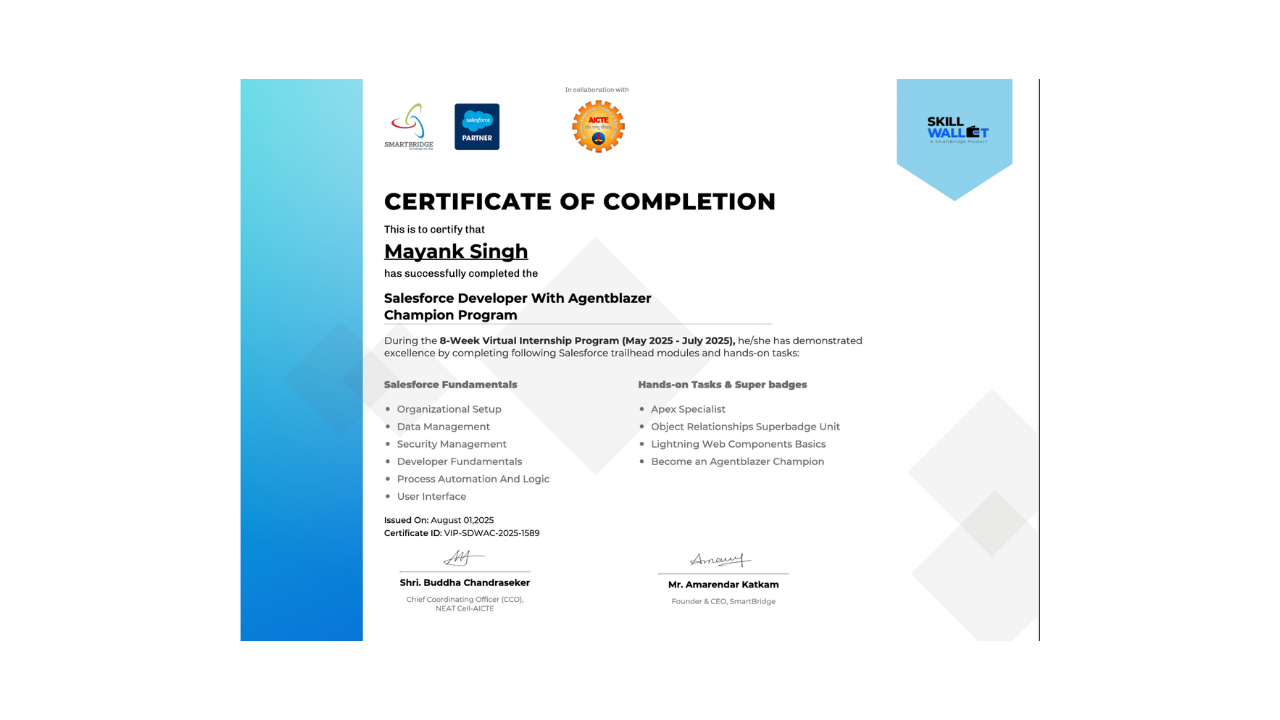
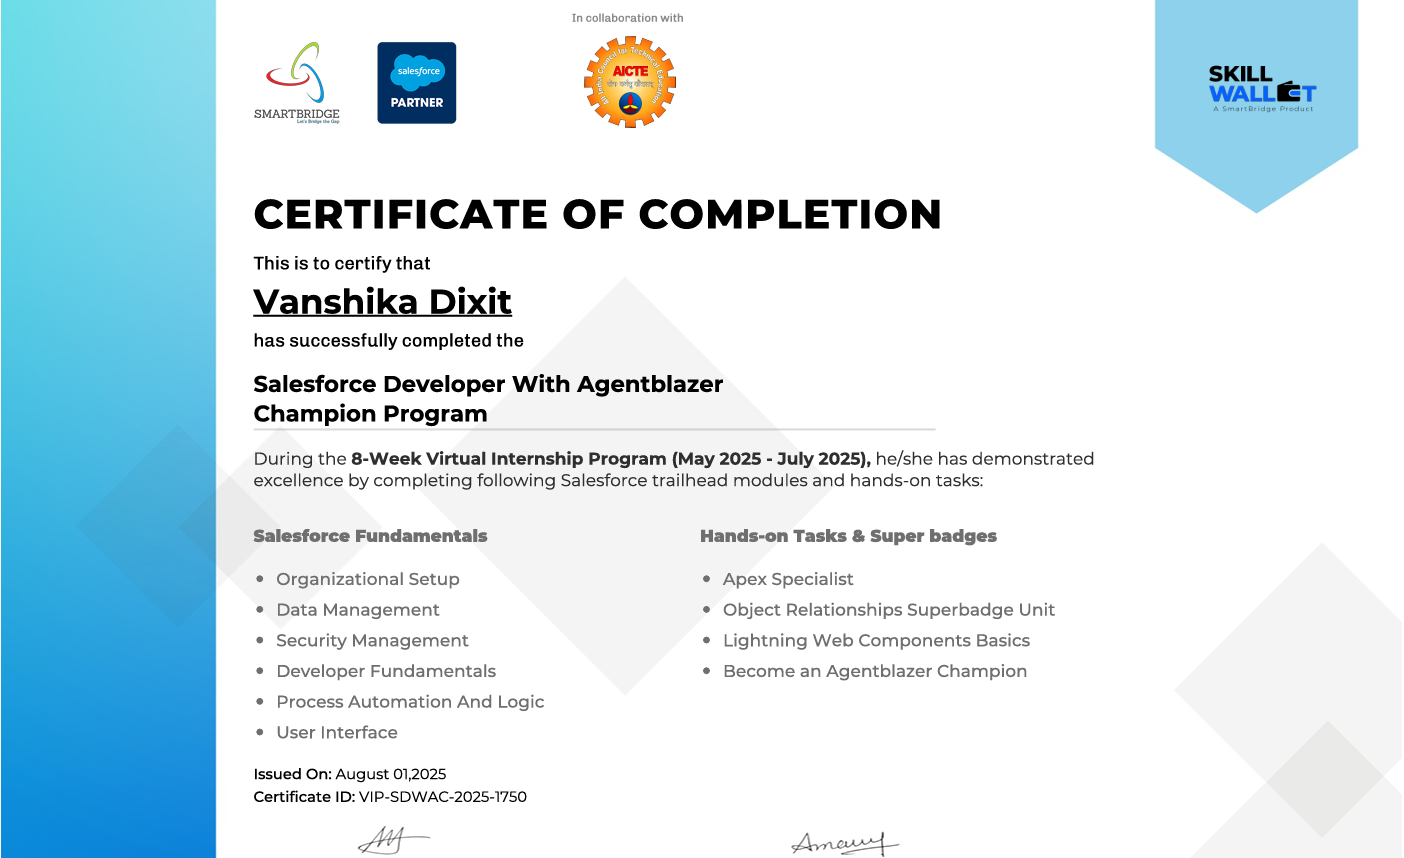
Initial commit for portfolio

diff --git a/src/app/components/ui/TimelineDemo.jsx b/src/app/components/ui/TimelineDemo.jsx
@@ -1,39 +1,39 @@
 import React from "react";
 import { Timeline } from "./Timeline";
 import Image from "next/image";
-import freg from "../../asset/memory_freg.png";
-import fre1 from "../../asset/memory_freg1.jpg";
-import freq2 from "../../asset/memory_freg3.png";
-import freq3 from "../../asset/memory_freg4.png";
-import compiler1 from "../../asset/comp1.png";
-import compiler2 from "../../asset/comp2.png";
-import compiler3 from "../../asset/comp3.jpg";
-import compiler4 from "../../asset/comp4.jpg";
-import craditcard1 from "../../asset/cradit1.png";
-import craditcard2 from "../../asset/cradit2.jpg";
-import craditcard3 from "../../asset/cardit3.jpg";
-import craditcard4 from "../../asset/cradit4.jpg";
+import freg from "../../asset/fileSystem1.png";
+import fre1 from "../../asset/fileSystem2.png";
+import freq2 from "../../asset/fileSystem4.png";
+import freq3 from "../../asset/fileSystem3.png";
+import compiler1 from "../../asset/attendance1.png";
+import compiler2 from "../../asset/attendance2.png";
+import compiler3 from "../../asset/attendance3.png";
+import compiler4 from "../../asset/attendance4.png";
+import craditcard1 from "../../asset/compiler1.png";
+import craditcard2 from "../../asset/compiler4.png";
+import craditcard3 from "../../asset/compiler3.png";
+import craditcard4 from "../../asset/compiler2.png";
 
-import mail1 from "../../asset/coldmain.png"
-import mail2 from "../../asset/coldmain1.png"
-import mail3 from "../../asset/coldmain2.png"
-import mail4 from "../../asset/coldmain3.png"
+import mail1 from "../../asset/cityMap1.png"
+import mail2 from "../../asset/cityMap4.png"
+import mail3 from "../../asset/cityMap2.png"
+import mail4 from "../../asset/cityMap3.png"
 
 export function TimelineDemo() {
   const data = [
     {
-      title: "Cold Email Genius",
+      title: "City Explorer Map",
       content: (
         <a
-          href="https://cold-email-ai-agent-frontend.vercel.app/"
+          href="https://city-explorer-map-app.vercel.app/"
           target="_blank"
           rel="noopener noreferrer"
           className="block no-underline"
         >
           <div>
             <p className="mb-8 text-xs font-normal  md:text-sm text-neutral-200">
-              Cold Email Genius is your smart AI-powered assistant that crafts personalized, high-converting cold emails in seconds.
-              Just drop in a job description or target profile, and let the AI handle the rest — tone, structure, and persuasion optimized.
+            The City-Explorer-Map Website is a responsive web application built with React, Leaflet, and OpenStreetMap APIs to help users discover nearby restaurants, parks, museums, and attractions.
+            It features real-time distance and travel time calculations, interactive route visualization, advanced search and category filtering, and persistent favorites via local storage—offering a seamless and engaging user experience.
             </p>
             <div className="grid grid-cols-2 gap-4">
               <Image
@@ -70,23 +70,18 @@ export function TimelineDemo() {
       ),
     },
         {
-      title: "Memory Fragmentation Visualizer",
+      title: "Virtual File System",
       content: (
         <a
-          href="https://memory-fragmentation-frontend.vercel.app/"
+          href="https://hybrid-file-system.onrender.com/"
           target="_blank"
           rel="noopener noreferrer"
           className="block no-underline"
         >
           <div>
             <p className="mb-8 text-xs font-normal text-neutral-200 md:text-sm dark:text-neutral-200">
-              A Memory Fragmentation Visualizer is a tool designed to
-              graphically represent how memory is allocated and used within a
-              system, highlighting the presence and extent of fragmentation. It
-              provides a visual layout of memory blocks, showing allocated,
-              free, and fragmented regions, making it easier to understand how
-              inefficient memory usage can occur over time due to allocation and
-              deallocation patterns.
+              The Virtual File System project is a simulated file management platform that mimics real-world file system operations. It supports creating, reading, updating, and deleting files and folders, along with hierarchical directory structures, metadata tracking, and efficient file navigation.
+               Designed with a user-friendly interface and optimized backend logic, it demonstrates core concepts of operating systems, including file allocation, indexing, and storage management, making it ideal for learning and showcasing system-level programming skills.
             </p>
             <div className="grid grid-cols-2 gap-4">
               <Image
@@ -123,21 +118,20 @@ export function TimelineDemo() {
       ),
     },
     {
-      title: "Multi Language Compiler",
+      title: "Facial Recognition Attendance System",
       content: (
         <a
-          href="https://multi-lang-compiler-frontend.vercel.app/"
+          href="https://github.com/vanshika0423/face-attendance-system"
           target="_blank"
           rel="noopener noreferrer"
           className="block no-underline"
         >
           <div>
             <p className="mb-8 text-xs font-normal text-neutral-200 md:text-sm dark:text-neutral-200">
-              Developed a fully responsive and user-friendly frontend interface
-              for seamless code editing, compilation, and output visualization.
+              The Face Recognition Attendance System is an AI-powered application designed to automate attendance tracking using computer vision and machine learning. Built with technologies like OpenCV, Python, and deep learning models, it accurately detects and recognizes faces in real time, marking attendance without manual input.
+              The system supports secure data storage, real-time logging, and report generation, making it ideal for classrooms, offices, or events where accuracy and efficiency are critical.
             </p>
             <p className="mb-8 text-xs font-normal text-neutral-800 md:text-sm dark:text-neutral-200">
-              build my own compiler for compile the code.
             </p>
             <div className="grid grid-cols-2 gap-4">
               <Image
@@ -174,35 +168,21 @@ export function TimelineDemo() {
       ),
     },
     {
-      title: "Credit Card Fraud Detection ",
+      title: "C Compiler Frontend",
       content: (
                 <a
-          href="https://github.com/MayankGEHU/Credit-Card-Fraud-Detection"
+          href="https://github.com/vanshika0423/compiler_project"
           target="_blank"
           rel="noopener noreferrer"
           className="block no-underline"
         >
         <div>
           <p className="mb-4 text-xs font-normal text-neutral-200 md:text-sm dark:text-neutral-200">
-            Developed a machine learning model to detect fraudulent credit card
-            transactions using real-world, imbalanced datasets.
+            The C Compiler Frontend project is a custom-built compiler component that performs lexical analysis, syntax parsing, and semantic validation for C programs. Using Flex and Bison, it handles tokenization, grammar parsing, and AST generation, ensuring accurate interpretation of complex C constructs like functions, loops, arrays, and conditionals.
+             The project also includes a robust symbol table to enforce type compatibility, scoping, and argument validation, providing a strong foundation for advanced compiler design and language processing tasks.
           </p>
           <div className="mb-8">
-            <div className="flex items-center gap-2 text-xs text-neutral-300 md:text-sm dark:text-neutral-300">
-              ✅ Machine learning
-            </div>
-            <div className="flex items-center gap-2 text-xs text-neutral-300 md:text-sm dark:text-neutral-300">
-              ✅ Python
-            </div>
-            <div className="flex items-center gap-2 text-xs text-neutral-300 md:text-sm dark:text-neutral-300">
-              ✅ SMOTE
-            </div>
-            <div className="flex items-center gap-2 text-xs text-neutral-300 md:text-sm dark:text-neutral-300">
-              ✅ Random Forest algorithm
-            </div>
-            <div className="flex items-center gap-2 text-xs text-neutral-300 md:text-sm dark:text-neutral-300">
-              ✅ GridSearchCV
-            </div>
+            {/*  */}
           </div>
           <div className="grid grid-cols-2 gap-4">
             <Image

diff --git a/src/app/components/ui/Certification.jsx b/src/app/components/ui/Certification.jsx
@@ -5,16 +5,19 @@ import { motion } from "framer-motion";
 import quant from "../../asset/jp.png";
 import AWS from "../../asset/ama.png";
 import AWS1 from "../../asset/ama1.png";
+import google1 from "../../asset/prompt.png";
+import google2 from "../../asset/cyber.png";
+import myntra from "../../asset/myntra.png"
 import googlehack from "../../asset/Hack2skill-Certificate.png";
 import hwi from "../../asset/hwi.png";
 import salseforce from "../../asset/Rissa May, Scarlett Alexis.png";
 
 const blogPosts = [
-  {
-    date: "August, 2025",
-    title: "Google solution Challange.",
-    image: googlehack,
-  },
+  // {
+  //   date: "August, 2025",
+  //   title: "Google solution Challange.",
+  //   image: googlehack,
+  // },
   {
     date: "July, 2025",
     title: "Hack with Infy.",
@@ -26,23 +29,42 @@ const blogPosts = [
     image: salseforce,
   },
   {
-    date: "July 2, 2025",
+    date: "June 12, 2025",
     title:
-      "JPMorgan Chase & Co. Quantitative Research Simulation - Developed practical finance & data skills.",
-    image: quant,
+      "Google Prompting Essentials",
+    image: google1,
+  },
+  // {
+  //   date: "July 2, 2025",
+  //   title:
+  //     "JPMorgan Chase & Co. Quantitative Research Simulation - Developed practical finance & data skills.",
+  //   image: quant,
+  // },
+  {
+    date: "April 23, 2025",
+    title:
+      "AWS Security Fundamental Second Edition",
+    image: AWS1,
   },
   {
-    date: "March 17, 2025",
+    date: "March 11, 2025",
     title:
       "AWS Cloud Practitioner Essentials - Gained core knowledge of AWS Cloud architecture and tools.",
     image: AWS,
   },
+  // {
+  //   date: "october, 2024",
+  //   title:
+  //     "Foundations of Cybersecurity",
+  //   image: myntra,
+  // },
   {
-    date: "February 20, 2025",
+    date: "december 23, 2023",
     title:
-      "AWS Skills Centers Training - Cloud Basics: Learned cloud fundamentals and AWS services.",
-    image: AWS1,
+      "Foundations of Cybersecurity",
+    image: google2,
   },
+  
 ];
 
 const Certification = () => {

diff --git a/src/app/components/Riva/RiveAnimation.jsx b/src/app/components/Riva/RiveAnimation.jsx
@@ -1,17 +1,30 @@
-"use client";
+// "use client";
 
-import { useRive } from "@rive-app/react-canvas";
+// import { useRive } from "@rive-app/react-canvas";
 
-export default function RiveAnimation() {
-  const { RiveComponent } = useRive({
-    src: "/rive/pomodoro.riv", 
-    stateMachines: "State Machine 1",
-    autoplay: true,
-  });
+// export default function RiveAnimation() {
+//   const { RiveComponent } = useRive({
+//     src: "/rive/pomodoro.riv", 
+//     stateMachines: "State Machine 1",
+//     autoplay: true,
+//   });
 
+//   return (
+//     <div className="w-[400px] h-[400px] md:w-[600px] md:h-[600px] mx-auto">
+//       <RiveComponent className="w-full h-full" />
+//     </div>
+//   );
+// }
+
+
+"use client"; // (only needed for Next.js app directory, if using client components)
+
+import Spline from '@splinetool/react-spline';
+
+export default function HeroSpline() {
   return (
-    <div className="w-[400px] h-[400px] md:w-[600px] md:h-[600px] mx-auto">
-      <RiveComponent className="w-full h-full" />
+    <div style={{ width: '100%', height: '500px' }}>
+      <Spline scene="https://prod.spline.design/MThNWdOAUhBErfmc/scene.splinecode" />
     </div>
   );
 }

diff --git a/src/app/components/ui/BackgroundBeamsWithCollisionDemo.jsx b/src/app/components/ui/BackgroundBeamsWithCollisionDemo.jsx
@@ -6,7 +6,7 @@ export function BackgroundBeamsWithCollisionDemo() {
     <BackgroundBeamsWithCollision>
       <div className="mt-25 flex flex-col items-center justify-center h-screen w-full text-center px-4">
         <h2 className="text-2xl md:text-4xl lg:text-7xl font-bold text-black dark:text-white font-sans tracking-tight z-20">
-          Hi&apos; My Name is Mayank Singh
+          Hi&apos; My Name is Vanshika Dixit
         </h2>
 
         <div className="relative mt-4 z-20">
@@ -34,6 +34,17 @@ export function BackgroundBeamsWithCollisionDemo() {
 //   return (
 //     <div className="w-full h-screen">
 //       <Spline scene="/spline/sceneheor.splinecode" />
+//     </div>
+//   );
+// }
+//"use client"; // (only needed for Next.js app directory, if using client components)
+// import React from "react";
+// import Spline from '@splinetool/react-spline';
+
+// export function BackgroundBeamsWithCollisionDemo() {
+//   return (
+//     <div style={{ width: '100%', height: '500px' }}>
+//       <Spline scene="https://prod.spline.design/MThNWdOAUhBErfmc/scene.splinecode" />
 //     </div>
 //   );
 // }

diff --git a/src/app/components/ui/SelectedProjects.jsx b/src/app/components/ui/SelectedProjects.jsx
@@ -5,23 +5,24 @@ import { motion } from "framer-motion";
 import leet from "../../asset/leetcode.png";
 import codeforce from "../../asset/codeforce.png";
 import github from "../../asset/github.png";
+import linkedln from "../../asset/linkedIn.png"
 
 export default function SelectedProjects() {
   const projects = [
     {
       title: "Leetcode",
       image: leet,
-      link: "https://leetcode.com/u/mayank__24/",
-    },
-    {
-      title: "Codeforce",
-      image: codeforce,
-      link: "https://codeforces.com/profile/minku6296",
+      link: "https://leetcode.com/u/_vanshika_04/",
     },
     {
       title: "GitHub",
       image: github,
-      link: "https://github.com/MayankGEHU",
+      link: "https://github.com/vanshika0423",
+    },
+    {
+      title: "LinkedIn",
+      image: linkedln,
+      link: "https://www.linkedin.com/in/vanshika-dixit-041543272/",
     },
   ];
 

diff --git a/src/app/page.js b/src/app/page.js
@@ -24,15 +24,15 @@ export default function Home() {
 
   return (
     <div className="relative">
-      <LoadingScreen />
+      {/* <LoadingScreen /> */}
 
       <FloatingNavDemo refs={{ homeRef, projectRef, codingRef, contactRef }} />
       <SplashCursor />
       <div ref={homeRef}>
-        {/* <BackgroundBeamsWithCollisionDemo /> */}
-        <HeroSection/>
+        <BackgroundBeamsWithCollisionDemo />
+        {/* <HeroSection/> */}
       </div>
-      <MayankAbout/>
+      {/* <MayankAbout/> */}
       <div ref={projectRef}>
         <TimelineDemo />
       </div>

diff --git a/src/app/components/ui/HeroSection.jsx b/src/app/components/ui/HeroSection.jsx
@@ -82,11 +82,11 @@ const Hero = () => {
           <div className="flex items-center gap-4">
             <Image
               src={pro}
-              alt="Mayank Singh"
+              alt="Vanshika Dixit"
               className="w-12 h-12 rounded-full object-cover"
             />
             <div className="flex-1">
-              <p className="font-semibold">Mayank Singh</p>
+              <p className="font-semibold">Vanshika Dixit</p>
               <p className="text-sm text-gray-400">@linkedin</p>
             </div>
             <a

diff --git a/src/app/components/ui/floating-navbar.jsx b/src/app/components/ui/floating-navbar.jsx
@@ -29,7 +29,7 @@ export const FloatingNav = ({ navItems, className }) => {
           </button>
         ))}
         <a
-          href="https://drive.google.com/file/d/1V4lh3zFh_ahycCs6TGqBEtueNDceLfB_/view?usp=sharing"
+          href="https://drive.google.com/file/d/1k-CV52ag3-slZKMWnNRNUATHDHuZ3PBG/view?usp=sharing"
           target="_blank"
           rel="noopener noreferrer"
           className="cursor-pointer border text-sm font-medium relative border-white/[0.2] dark:border-white/[0.2] text-white px-4 py-2 rounded-full"

diff --git a/src/app/components/ui/Footer.jsx b/src/app/components/ui/Footer.jsx
@@ -4,7 +4,7 @@ import './Footer.css';
 const Footer = () => {
   return (
     <footer className="footer">
-      <h1 className="footer-title">Mayank Singh Portfolio</h1>
+      <h1 className="footer-title">Vanshika Dixit Portfolio</h1>
     </footer>
   );
 };

diff --git a/src/app/components/ui/SignupFormDemoo.jsx b/src/app/components/ui/SignupFormDemoo.jsx
@@ -17,7 +17,7 @@ export function SignupFormDemo() {
 
     emailjs
       .sendForm(
-        "service_tkjqs3a",    
+        "service_ua2fj0c",    
         "template_18laqe9",    
         form.current,
         "65K9U1YH9sH3iwgaK"   

diff --git a/src/app/layout.js b/src/app/layout.js
@@ -12,7 +12,7 @@ const geistMono = Geist_Mono({
 });
 
 export const metadata = {
-  title: "Mayank Singh",
+  title: "Vanshika Dixit",
   description: "Generated by create next app",
   icons: {
     icon: "/favicon.png",
